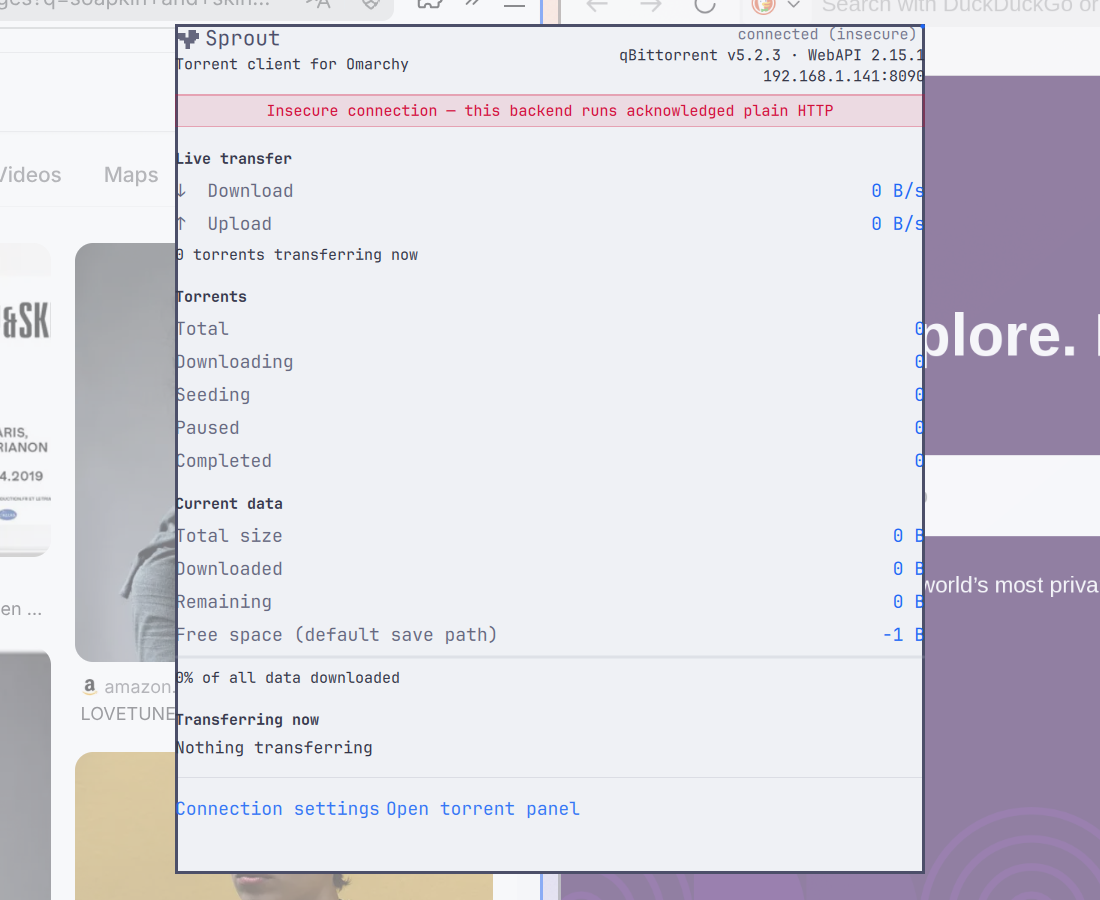
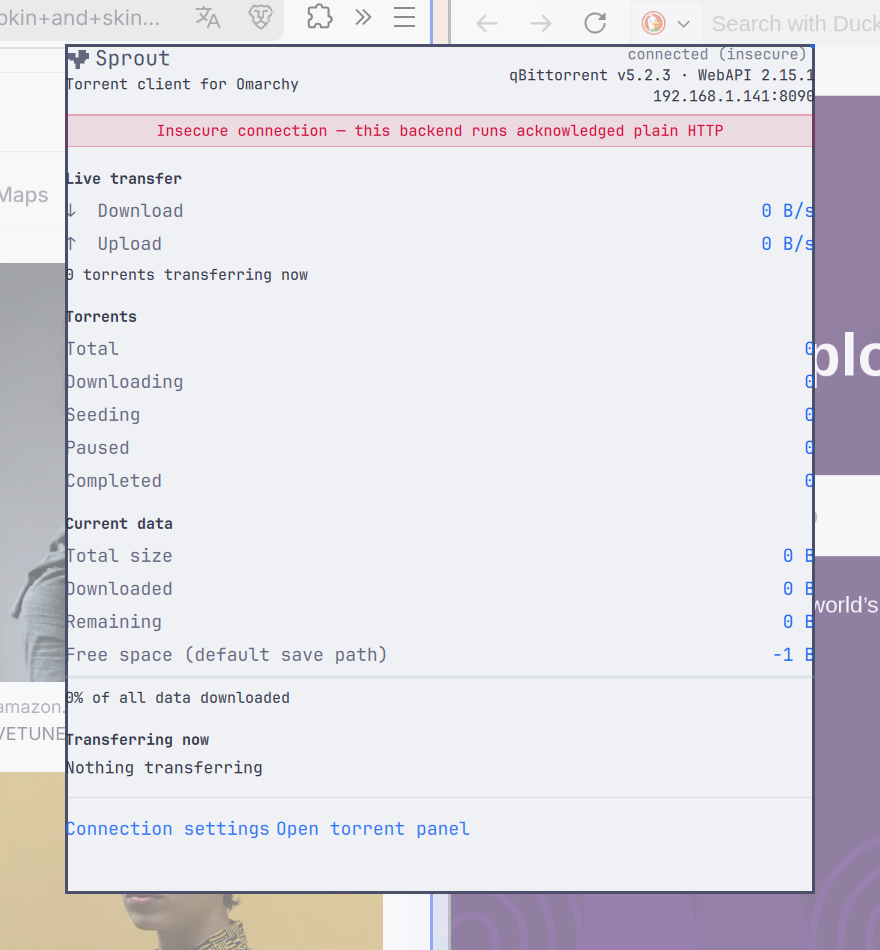
docs: final review verdicts and tighter capture framing
All four independent reviews APPROVE on the pushed HEAD. Advisory
fixes applied: panel captures re-cropped to the full popout (590x640
— the panel is 540 px wide at this theme's 1.5 spacing scale, the
old crops cut its left edge and included ambient desktop content in
a public repo); dashboards re-cropped to the card (880x950). The
empty-state pixel count now documents its method (magick -fuzz 12%
opaque count) per the architecture review; BRAND.md lockup corrected
to 94x18 units; generate.py docstring filename corrected.

Changed region(s): [[0.0, 0.0, 1.0, 1.0]]

diff --git a/assets/brand/generate.py b/assets/brand/generate.py
@@ -7,7 +7,7 @@ below are a clean-room reconstruction of the approved Sprout artwork
 geometry; every SVG/PNG/ASCII asset is derived from them.
 
 Run:  python3 assets/brand/generate.py
-Out:  assets/brand/*.svg, *.png, sprout-ascii.txt
+Out:  assets/brand/*.svg, *.png, sprout-blocks.txt
 
 PNG raster exports use integer cell multiples only (no interpolation);
 the SVGs are the scalable source of truth. QML never loads these files —

diff --git a/docs/agent/PHASE051.md b/docs/agent/PHASE051.md
@@ -49,7 +49,7 @@ the approved brand reference.
 |---|---|---|---|
 | 1 | Bar widget (glyph + speeds) | PASS — glyph crisp, optically aligned, single render | phase051-bar.png |
 | 2 | Panel populated (local, long torrent name) | PASS — two-row header; long name elides | phase051-panel-local.png |
-| 3 | Panel empty state | PASS — deterministic pixel proof (4,922 brand-green px) + open-prompt vision check; TWO bugs fixed en route: wordmark sized 21×5 px (UI review) and a zero-height ListView collapse that made every empty/degraded list message invisible since Phase 0.2 (see below) | phase051-panel-empty.png |
+| 3 | Panel empty state | PASS — deterministic pixel proof (brand-green count in the thousands; method: magick -fuzz 12% opaque count) + open-prompt vision check; TWO bugs fixed en route: wordmark sized 21×5 px (UI review) and a zero-height ListView collapse that made every empty/degraded list message invisible since Phase 0.2 (see below) | phase051-panel-empty.png |
 | 4 | Panel auth_required (live fixture) | PASS — truthful callout + settings link + last-known | phase051-panel-auth-required.png |
 | 5 | Panel auth_failed (live, wrong password) | PASS — sticky class | phase051-panel-auth-failed.png |
 | 6 | Panel TLS failure (live, self-signed) | PASS — tls_hostname, no-downgrade copy | phase051-panel-tls-failed.png |
@@ -164,9 +164,13 @@ never have rendered (present since Phase 0.2; never noticed because
 the dev backend always had torrents). Fix: the list area is now a
 fixed-height Item; the ListView fills it; the brand empty state,
 filter-empty message, and degraded message are overlays on the area.
-Verified live: 4,922 brand-green pixels (wordmark) + open-prompt
-vision confirmation of glyph/wordmark/copy/Add-magnet; populated
-panel re-captured on the same build.
+Verified live: brand-green pixel count (magick: -fuzz 12% opaque
+count for #A1D06A) — 4,922 px in the working capture, 4,057-4,062 px
+in the final committed framing (crop geometry affects the absolute
+number; the method is the check, any count in the thousands with six
+letter clusters is the wordmark) — plus open-prompt vision
+confirmation of glyph/wordmark/copy/Add-magnet; populated panel
+re-captured on the same build.
 
 This also retroactively explains the issue #12 report: "Nothing in
 this filter" could not have been visible in the list area either —
@@ -175,3 +179,27 @@ further support for the transcription-artifact classification.
 The earlier session notes claiming the empty state "verified" before
 this fix were vision-tool hallucinations under leading prompts; all
 current evidence is deterministic (pixel counts) or open-prompt.
+
+## Final review round (pushed HEAD 891030c, after re-verification)
+
+All four independent reviews re-ran against the pushed HEAD and
+returned **APPROVE**:
+- Architecture: APPROVE (P3: record the pixel-count method — done
+  above; P4s: validate_brand regeneration writes assets, delegate
+  indentation, pixel-S/G legibility note).
+- Quickshell/UI: APPROVE (deterministic letter-cluster analysis of the
+  wordmark; confirmed the restructure, hardening, and all prior fixes;
+  advisory: capture framing cut the panel's left edge at this theme's
+  1.5 spacing scale — fixed in the final framing pass below).
+- Brand: APPROVE 10/10 (pixel-level verification of every asset; two
+  doc nits fixed below: lockup 94x18 not 93x18, generate.py docstring
+  filename).
+- QA: APPROVE (11/11 screenshots binary-identical at HEAD; empty-state
+  count independently reproduced; public-name, identifier, journal,
+  theme, and disposition checks all pass; advisory: ambient desktop
+  content beside the panel — fixed by the tighter framing).
+
+Final framing pass (advisory fixes): all panel captures re-cropped to
+the full popout (590x640; the panel is 540 px wide at this theme's
+1.5 spacing scale) and dashboards to the card (880x950), removing
+ambient desktop content from a public repo.

diff --git a/docs/BRAND.md b/docs/BRAND.md
@@ -28,7 +28,7 @@ All three are generated from the same grids in `assets/brand/generate.py`.
 | Compact glyph | 12×10 | bar widget, panel header, dashboard header, 16–32 px |
 | Full glyph | 24×18 | empty state, README, larger brand contexts |
 | Wordmark | letters 8 modules tall | empty state title, README |
-| Lockup (glyph + wordmark) | 93×18 units | README, presentations |
+| Lockup (glyph + wordmark) | 94×18 units | README, presentations |
 | Terminal/block variant | `sprout-blocks.txt` | docs, terminal presentation |
 
 Construction facts (from the approved artwork): letters are **8 modules
